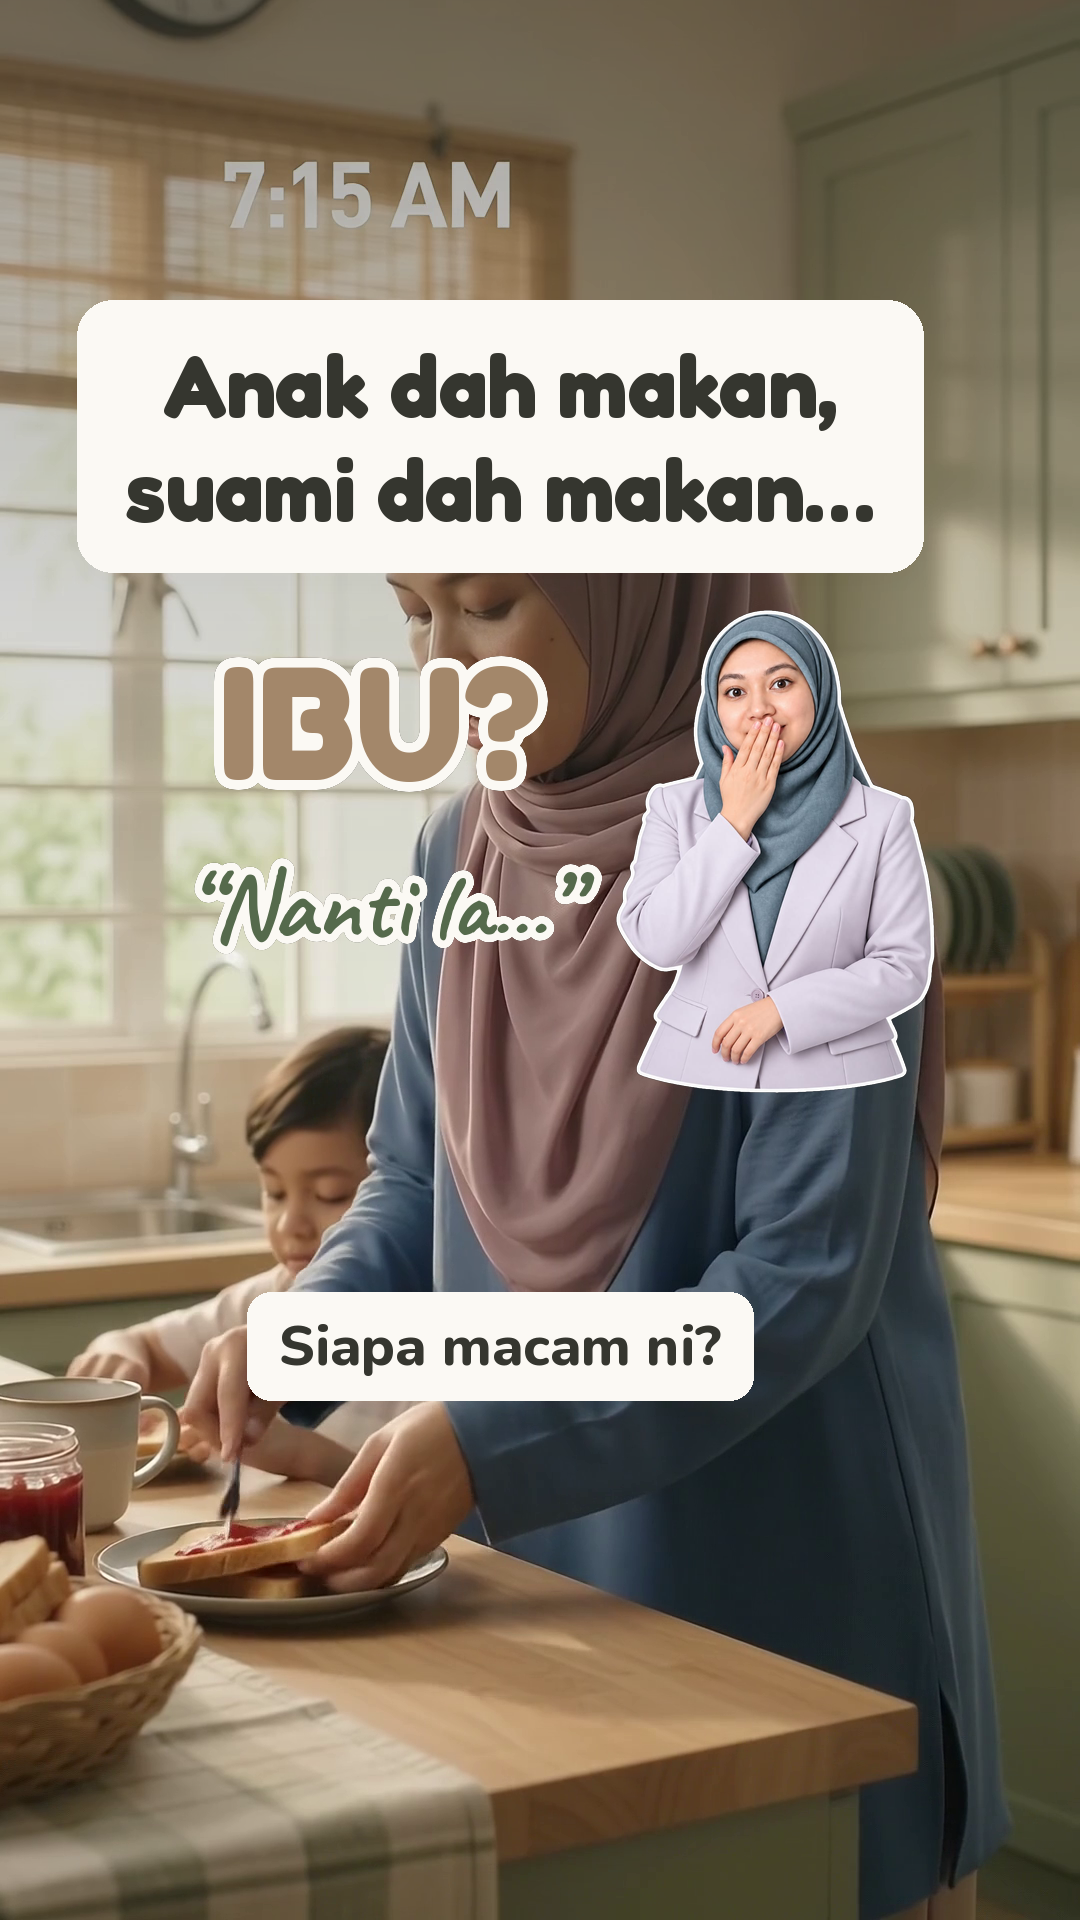
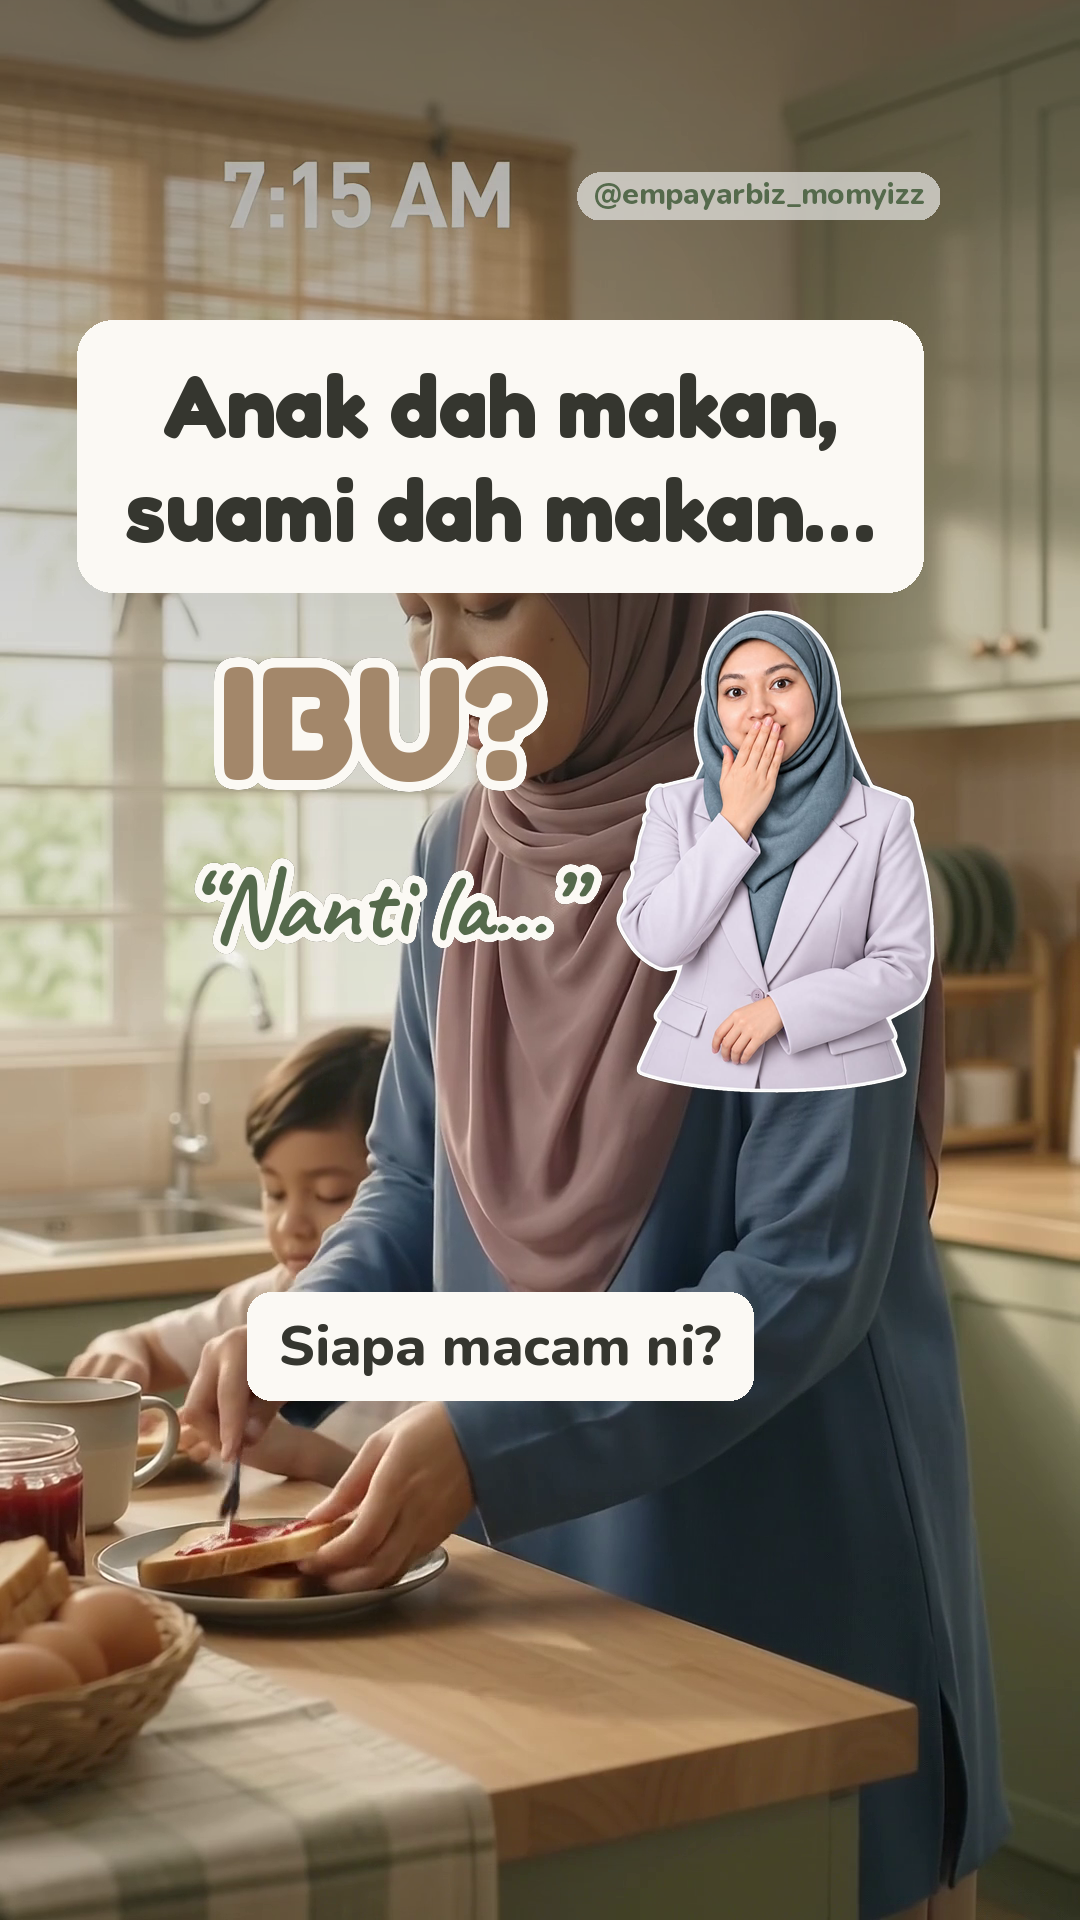
EP02 v2: gambar produk sebenar, nama akaun, tiada pertindihan; simpan peraturan editing tetap
Claude-Session: https://claude.ai/code/session_012zDhAetK9Ufav82vMdmxz9

Changed region(s): [[0.0611, 0.1562, 0.8556, 0.3125], [0.5194, 0.0625, 0.8861, 0.125]]

diff --git a/EPISOD/EP02_Sarapan_Ibu/render.py b/EPISOD/EP02_Sarapan_Ibu/render.py
@@ -81,7 +81,7 @@ def penafian(y=1150):
     ImageDraw.Draw(im).text((bw / 2, bh / 2), t, font=f, fill=DAKWAT, anchor="mm")
     return im, int(500 - bw / 2), y
 
-def label_bukti(label, color, sumber, y=200):
+def label_bukti(label, color, sumber, y=300):
     fl = font("Fredoka", 32, "SemiBold")
     fs = font("Nunito", 30, "ExtraBold")
     d = ImageDraw.Draw(Image.new("L", (1, 1)))
@@ -120,7 +120,7 @@ def hook_card():
     dr = ImageDraw.Draw(im)
     dr.text((pad + bw / 2, pad + 32 + 52), l1, font=f, fill=DAKWAT, anchor="mm")
     dr.text((pad + bw / 2, pad + 32 + 104 + 52), l2, font=f, fill=DAKWAT, anchor="mm")
-    return im, int(500 - im.width / 2), 300 - pad
+    return im, int(500 - im.width / 2), 320 - pad
 
 def hook_ibu():
     f = font("Fredoka", 160, "Bold")
@@ -155,7 +155,7 @@ def label_pilar():
 def cta():
     f1 = font("Nunito", 48, "ExtraBold")
     f2 = font("Fredoka", 72, "Bold")
-    bw, bh = 880, 220
+    bw, bh = 876, 220
     im, pad = shadow_box((bw, bh), 36, KERTAS, border=SAGE_G, bw=6)
     dr = ImageDraw.Draw(im)
     dr.text((pad + bw / 2, pad + 66), "Nak dapatkan produk?", font=f1, fill=DAKWAT, anchor="mm")
@@ -171,9 +171,51 @@ def sticker(fname, width, x, ybot):
 
 # ---------- garis masa ----------
 T = []  # (mula, tamat, komponen)
-def add(a, b, comp): T.append((a, b, comp))
+SAFE = (60, 160, 940, 1440)  # x0, y0, x1, y1 — kawasan selamat TikTok/Reels
+
+def vis_box(comp):
+    """Kotak nampak sebenar (abaikan bayang lembut, alfa <= 60)."""
+    im, x, y = comp
+    b = im.split()[3].point(lambda v: 255 if v > 60 else 0).getbbox()
+    return (x + b[0], y + b[1], x + b[2], y + b[3])
+
+def add(a, b, comp):
+    bx = vis_box(comp)
+    assert SAFE[0] <= bx[0] and SAFE[1] <= bx[1] and bx[2] <= SAFE[2] and bx[3] <= SAFE[3], \
+        f"KELUAR SAFE ZONE {a:.2f}-{b:.2f}: {bx}"
+    T.append((a, b, comp))
+
+def watermark():
+    f = font("Nunito", 30, "ExtraBold")
+    t = "@empayarbiz_momyizz"
+    d = ImageDraw.Draw(Image.new("L", (1, 1)))
+    bw, bh = tw(d, t, f) + 32, 48
+    im, pad = shadow_box((bw, bh), 24, KERTAS, alpha=225, shadow=False)
+    ImageDraw.Draw(im).text((bw / 2, bh / 2 - 2), t, font=f, fill=SAGE_G, anchor="mm")
+    return im, 940 - bw, 172   # atas kanan, betul-betul bawah garis safe zone atas
+
+# Babak produk sebenar (ganti tin AI dalam klip 5, 1.958–4.875 s)
+PROD_A, PROD_B = None, None
+PROD_IMG = Image.open("/home/user/Video-amway/AMWAY_BRAND/PRODUK/nutrilite-soy-protein-drink.jpg").convert("RGB")
+def product_scene(t):
+    k = (t - PROD_A) / (PROD_B - PROD_A)
+    bg = PROD_IMG.resize((int(PROD_IMG.width * H / PROD_IMG.height), H), Image.BILINEAR)
+    bg = bg.crop(((bg.width - W) // 2, 0, (bg.width - W) // 2 + W, H)).filter(ImageFilter.GaussianBlur(28))
+    bg = Image.blend(bg, Image.new("RGB", (W, H), KRIM), 0.35).convert("RGBA")
+    crop = PROD_IMG.crop((330, 150, 1150, 918))           # tin + gelas + kacang soya
+    z = 1.0 + 0.06 * k                                       # zoom perlahan
+    cw, ch = int(crop.width / z), int(crop.height / z)
+    crop = crop.crop(((crop.width - cw) // 2, (crop.height - ch) // 2, (crop.width + cw) // 2, (crop.height + ch) // 2))
+    cardw = 880; cardh = int(cardw * 768 / 820)
+    crop = crop.resize((cardw, cardh), Image.LANCZOS)
+    card, pad = shadow_box((cardw, cardh), 36, KERTAS)
+    m = Image.new("L", (cardw, cardh), 0); ImageDraw.Draw(m).rounded_rectangle((0, 0, cardw, cardh), 36, fill=255)
+    card.paste(crop, (pad, pad), m)
+    bg.alpha_composite(card, (60 - pad, 350 - pad))
+    return bg
 
 # HOOK 3 s (cover)
+add(0.00, TOTAL, watermark())
 add(0.00, 3.00, hook_card())
 add(0.90, 3.00, hook_ibu())
 add(1.60, 3.00, hook_nanti())
@@ -182,6 +224,7 @@ add(2.10, 3.00, sari_kata("Siapa macam ni?"))
 
 c = [0]
 for d in DUR: c.append(c[-1] + d)
+PROD_A, PROD_B = c[4] + 1.958, c[4] + 4.875
 SUB = [
     # klip 1 — pagi (0–7.93)
     (3.00, 5.40, "7.15 pagi. Kak Ana siapkan anak dulu."),
@@ -210,16 +253,38 @@ SUB = [
     (c[5], 44.20, "Ibu pun manusia. Duduk 5 minit, makan dengan tenang."),
 ]
 for a, b, t in SUB:
-    add(a, b, sari_kata(t))
+    # babak penutup: penafian duduk di bawah, jadi sari kata naik supaya tak bertindih
+    add(a, b, sari_kata(t, ybot=1320 if a >= c[5] else 1400))
 
-add(20.30, c[3], label_bukti("Fakta terbukti", TERBUKTI, "Sumber: KKM, Garis Panduan Diet Malaysia 2020"))
-add(c[3] + 0.2, 30.40, label_bukti("Sarapan 5 Minit Ibu", SAGE_G, "Idea mudah, sedia malam sebelumnya"))
+add(20.30, c[3], label_bukti("Fakta terbukti", TERBUKTI, "Sumber: KKM MDG 2020"))
+add(c[3] + 0.2, 30.40, label_bukti("Sarapan 5 Minit Ibu", SAGE_G, "Sedia malam sebelumnya", y=1130))
 add(c[4], 36.40, label_bukti("Panduan", SAGE, "Panduan pemakanan umum"))
 add(20.30, c[3], penafian())
 add(44.20, 46.60, big_word("Ibu pun perlu diisi.", y=860))
 add(c[5], TOTAL, penafian(1400 - 54))
 add(46.60, TOTAL, cta())
 add(46.80, TOTAL, sticker("02-blazer-tunjuk-bawah.png", 380, 90, 990))
+
+def overlaps():
+    bad = []
+    for i in range(len(T)):
+        for j in range(i + 1, len(T)):
+            a1, b1, c1 = T[i]; a2, b2, c2 = T[j]
+            if min(b1, b2) - max(a1, a2) <= 0.01: continue
+            p, q = vis_box(c1), vis_box(c2)
+            if p[0] < q[2] and q[0] < p[2] and p[1] < q[3] and q[1] < p[3]:
+                bad.append((round(max(a1, a2), 2), p, q))
+    # teks yang tertanam dalam klip AI (jam, "Breakfast Idea")
+    for a1, b1, q in BAKED:
+        for a2, b2, c2 in T:
+            if min(b1, b2) - max(a1, a2) <= 0.01: continue
+            p = vis_box(c2)
+            if p[0] < q[2] and q[0] < p[2] and p[1] < q[3] and q[1] < p[3]:
+                bad.append(("klip", round(max(a1, a2), 2), p, q))
+    return bad
+BAKED = [(0, c[1], (215, 155, 525, 235)), (c[1], c[2], (165, 155, 565, 235)),
+         (c[3], c[3] + 2.0, (230, 265, 860, 365)), (c[3] + 1.9, c[3] + 4.0, (300, 320, 820, 430))]
+for o in overlaps(): print("BERTINDIH:", o)
 
 def ease(x): return 1 - (1 - x) ** 3
 
@@ -271,6 +336,7 @@ if __name__ == "__main__":
             fr = subprocess.run(["ffmpeg", "-v", "error", "-ss", str(t), "-i", base, "-frames:v", "1", "-f", "rawvideo",
                                  "-pix_fmt", "rgba", "-"], capture_output=True).stdout
             im = Image.frombytes("RGBA", (W, H), fr)
+            if PROD_A <= t < PROD_B: im = product_scene(t)
             v = hook_vignette(t)
             if v: im = Image.alpha_composite(im, v)
             im = Image.alpha_composite(im, frame_overlay(t))
@@ -295,6 +361,7 @@ if __name__ == "__main__":
         if len(fr) < W * H * 4: break
         t = i / FPS
         im = Image.frombytes("RGBA", (W, H), fr)
+        if PROD_A <= t < PROD_B: im = product_scene(t)
         v = hook_vignette(t)
         if v: im = Image.alpha_composite(im, v)
         im = Image.alpha_composite(im, frame_overlay(t))

diff --git a/PRODUCTION_STANDARD.md b/PRODUCTION_STANDARD.md
@@ -49,6 +49,14 @@ Kawasan selamat: x 60–940, y 160–1440. Lihat garis bantu dalam `TEMPLATES/MO
 ## Eksport — CADANGAN
 MP4 (H.264), 1080 × 1920, 30 fps, bitrate 12–16 Mbps, audio AAC 48 kHz 320 kbps.
 
+## Peraturan editing tetap — DISAHKAN (arahan pengguna, 15 Nov 2026)
+Wajib untuk SETIAP video yang diedit, tanpa perlu diingatkan semula:
+
+1. **Nama akaun sepanjang video:** `@empayarbiz_momyizz` di bahagian atas frame, betul-betul di bawah garis safe zone atas (y ≈ 172–220, rapat ke kanan x ≤ 940). Pil Kertas 88% legap, Nunito 800 30 px, Sage gelap. Kedudukan dialih jika bertindih dengan teks yang tertanam dalam klip (contoh jam "7:15 AM").
+2. **Semua tulisan, ikon, sticker, animasi dan grafik mesti berada dalam frame TikTok/Reels** (x 60–940, y 160–1440), termasuk semasa animasi masuk/keluar. Semak setiap elemen secara automatik sebelum render. Elemen yang terkeluar walaupun 1 px mesti dibetulkan.
+3. **Sari kata dan grafik tidak boleh bertindih** antara satu sama lain (sari kata, penafian, label, CTA, big word, sticker, nama akaun) atau dengan teks yang tertanam dalam klip AI. Semak setiap pasangan elemen yang muncul serentak. Jika bertindih, alihkan kedudukan (contoh: naikkan sari kata bila penafian di bawah).
+4. **Gambar produk mesti tepat seperti produk sebenar.** Jika klip AI menunjukkan botol/tin/label yang salah atau direka, ganti babak itu dengan gambar produk sebenar dalam `AMWAY_BRAND/PRODUK/` (atau gambar yang diberi pengguna). Jangan biarkan label palsu.
+
 ## Senarai semak QC (Pintu 3)
 - [ ] Fakta sepadan dengan skrip yang diluluskan. Tiada fakta "PERLU SEMAK"
 - [ ] Tiada dakwaan perubatan, janji hasil atau tajuk menakutkan
@@ -56,7 +64,10 @@ MP4 (H.264), 1080 × 1920, 30 fps, bitrate 12–16 Mbps, audio AAC 48 kHz 320 kb
 - [ ] Penafian "Perkongsian ilmu umum. Bukan nasihat perubatan." di skrin ≥ 3 s
 - [ ] CTA tepat: "Nak dapatkan produk? Klik LINK di Bio"
 - [ ] Tiada URL, nombor telefon atau WhatsApp dalam video
-- [ ] Semua teks, sticker, CTA dan penafian dalam safe zone
+- [ ] Semua teks, sticker, CTA dan penafian dalam safe zone (semakan automatik lulus)
+- [ ] Nama akaun `@empayarbiz_momyizz` kelihatan sepanjang video
+- [ ] Tiada sari kata / grafik yang bertindih
+- [ ] Gambar produk sepadan dengan produk sebenar (`AMWAY_BRAND/PRODUK/`)
 - [ ] Sticker: satu set pakaian, satu di skrin pada satu masa, arah tunjuk betul, tidak tutup wajah/sari kata
 - [ ] Hanya warna palet dan font Fredoka / Nunito / Caveat
 - [ ] Sari kata sepadan dengan suara, tiada salah ejaan

diff --git a/TEMPLATES/MOTION_GRAPHICS_KIT/KOMPONEN.md b/TEMPLATES/MOTION_GRAPHICS_KIT/KOMPONEN.md
@@ -69,6 +69,12 @@ Gerakan lalai: masuk pop 90%→100% + fade 0.3 s, keluar fade 0.2 s, ease-out.
 - Kedudukan: y ~900–1300. Sticker `02-blazer-tunjuk-bawah` di atas kotak, tunjuk ke CTA.
 - Tempoh 3–5 s terakhir. Tiada URL, nombor telefon atau WhatsApp.
 
+## `NAMA_AKAUN` — watermark (wajib, sepanjang video)
+- Teks tepat: **"@empayarbiz_momyizz"**
+- Pil Kertas 88% legap, tinggi 48 px, jejari 24 px. Nunito 800, 30 px, Sage gelap `#556A4C`.
+- Kedudukan: atas frame, betul-betul bawah garis safe zone atas (y ≈ 172), rapat kanan (hujung x = 940).
+- Muncul dari saat 0 hingga akhir, tanpa animasi keluar. Tidak boleh bertindih dengan teks tertanam dalam klip.
+
 ## `STICKER` — sticker Momyizz
 - PNG lutsinar dari `AMWAY_BRAND/STICKERS/`. Lebar 35–45% skrin (380–490 px).
 - Satu di skrin pada satu masa. Satu set pakaian setiap video. Arah tunjuk ke elemen yang dimaksudkan.

diff --git a/CLAUDE.md b/CLAUDE.md
@@ -33,6 +33,9 @@ Peraturan ini mengatasi semua arahan lain dalam repo ini.
 Workspace ini dibina dari kosong untuk Amway. Ia tidak menyalin apa-apa dari video-emas.
 Nilai bertanda **CADANGAN** ialah draf. Nilai bertanda **MENUNGGU** mesti ditanya kepada pengguna.
 
+## Peraturan editing tetap (setiap video)
+Ikut "Peraturan editing tetap" dalam `PRODUCTION_STANDARD.md`: nama akaun `@empayarbiz_momyizz` di atas frame sepanjang video, semua elemen dalam safe zone TikTok/Reels, tiada sari kata/grafik bertindih, gambar produk mesti tepat (guna `AMWAY_BRAND/PRODUK/`). Contoh pelaksanaan dengan semakan automatik: `EPISOD/EP02_Sarapan_Ibu/render.py`.
+
 ## Identiti jenama Amway
 Rujuk `AMWAY_BRAND/BRAND.md` untuk palet, tulisan, sticker, CTA, pautan dan peraturan ketepatan maklumat produk.
 Bahagian bertanda **MENUNGGU** belum ditetapkan: jangan reka nilai, tanya pengguna dahulu.

diff --git a/EPISOD/EP02_Sarapan_Ibu/README.md b/EPISOD/EP02_Sarapan_Ibu/README.md
@@ -15,6 +15,8 @@ Susunan klip ikut storyboard: pagi → pejabat → Pinggan Sihat → idea sarapa
 4. 2.1 s: sari kata **"Siapa macam ni?"**
 
 ## Perlu semak sebelum terbit (Pintu 3)
-- Klip produk (33.8–49.7 s) dijana AI: label tin Nutrilite tidak tepat (tulisan kabur/rekaan). Ganti dengan rakaman produk sebenar atau sahkan dengan Amway.
+- v2: babak close-up tin AI (35.75–38.67 s) diganti dengan gambar produk sebenar (`AMWAY_BRAND/PRODUK/`). Tin kecil dalam babak lain masih dari klip AI.
+- v2: nama akaun `@empayarbiz_momyizz` sepanjang video; semakan automatik safe zone + pertindihan lulus.
+- Gambar produk rasmi: sahkan kebenaran dengan Amway / upline.
 - Teks "Breakfast Idea 1/2" dalam klip AI berbahasa Inggeris.
 - Muzik: tambah dari Commercial Music Library dalam CapCut.

diff --git a/AMWAY_BRAND/PRODUK/README.md b/AMWAY_BRAND/PRODUK/README.md
@@ -1,0 +1,9 @@
+# Gambar produk sebenar
+
+Guna gambar ini untuk ganti produk yang salah/direka dalam klip AI.
+
+| Fail | Produk | Sumber |
+|---|---|---|
+| `nutrilite-soy-protein-drink.jpg` | Nutrilite Soy Protein Drink (original flavour, 900 g, pek baharu tutup hijau) | Diberi pengguna, 15 Nov 2026 |
+
+Nota: dasar Amway Malaysia melarang guna gambar produk rasmi tanpa kebenaran syarikat. Sahkan dengan Amway / upline sebelum terbit.
